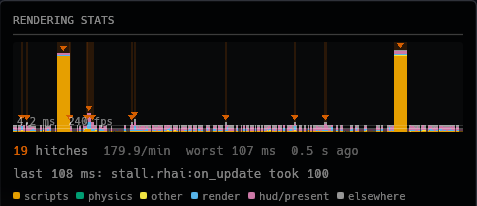
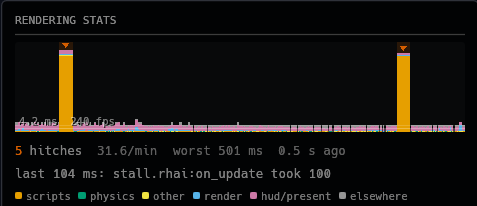
Profiling: the F2 image retaken on the 24 ms floor (#1109)
The old take marked a dozen three-refresh frames at 240 Hz as hitches.

diff --git a/docs/book/src/guides/profiling.md b/docs/book/src/guides/profiling.md
@@ -409,7 +409,7 @@ A `clock stall` is the long frame itself, so it is kept on the hitch but is no c
 
 F2 shows the history as it happens. The overlay opens with a graph of the last four seconds above the rendering stats:
 
-![The F2 overlay on examples/hitch_metronome at 240 Hz: two 100 ms script stalls as orange blocks with marks over them, a few small hitches elsewhere, and the counters and legend under the graph](../images/f2-frame-graph.png)
+![The F2 overlay on examples/hitch_metronome at 240 Hz: two 100 ms script stalls as orange blocks with marks over them, the late frames between them unmarked, and the counters and legend under the graph](../images/f2-frame-graph.png)
 
 Each pixel column is a slice of time, and its bar is the worst frame in that slice: one frame a column at 60 Hz, the worst of four at 240 Hz. A frame longer than a slice takes as many columns as it lasted, so a 100 ms stall is a block six columns wide, not a one-pixel line. A bar is as tall as its frame stood on screen. That is the time the hitch detector judges: whole refreshes under vsync pacing, so the 6, 6, 6, 45 ms bursts draw as an even row of single refreshes.
 
